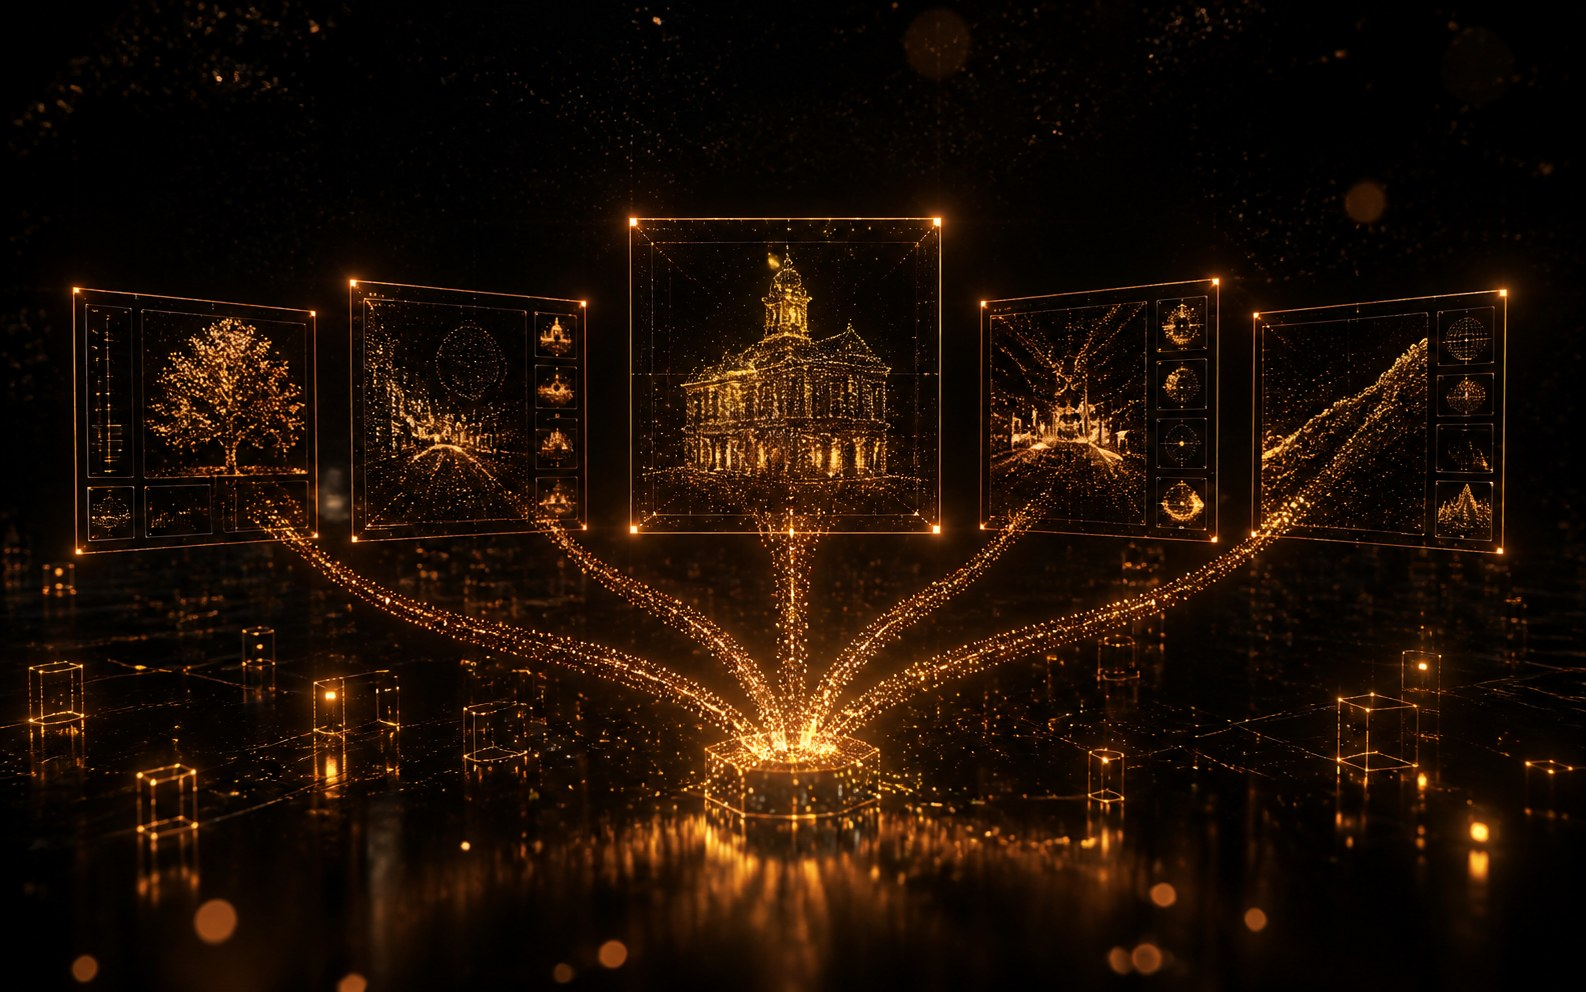
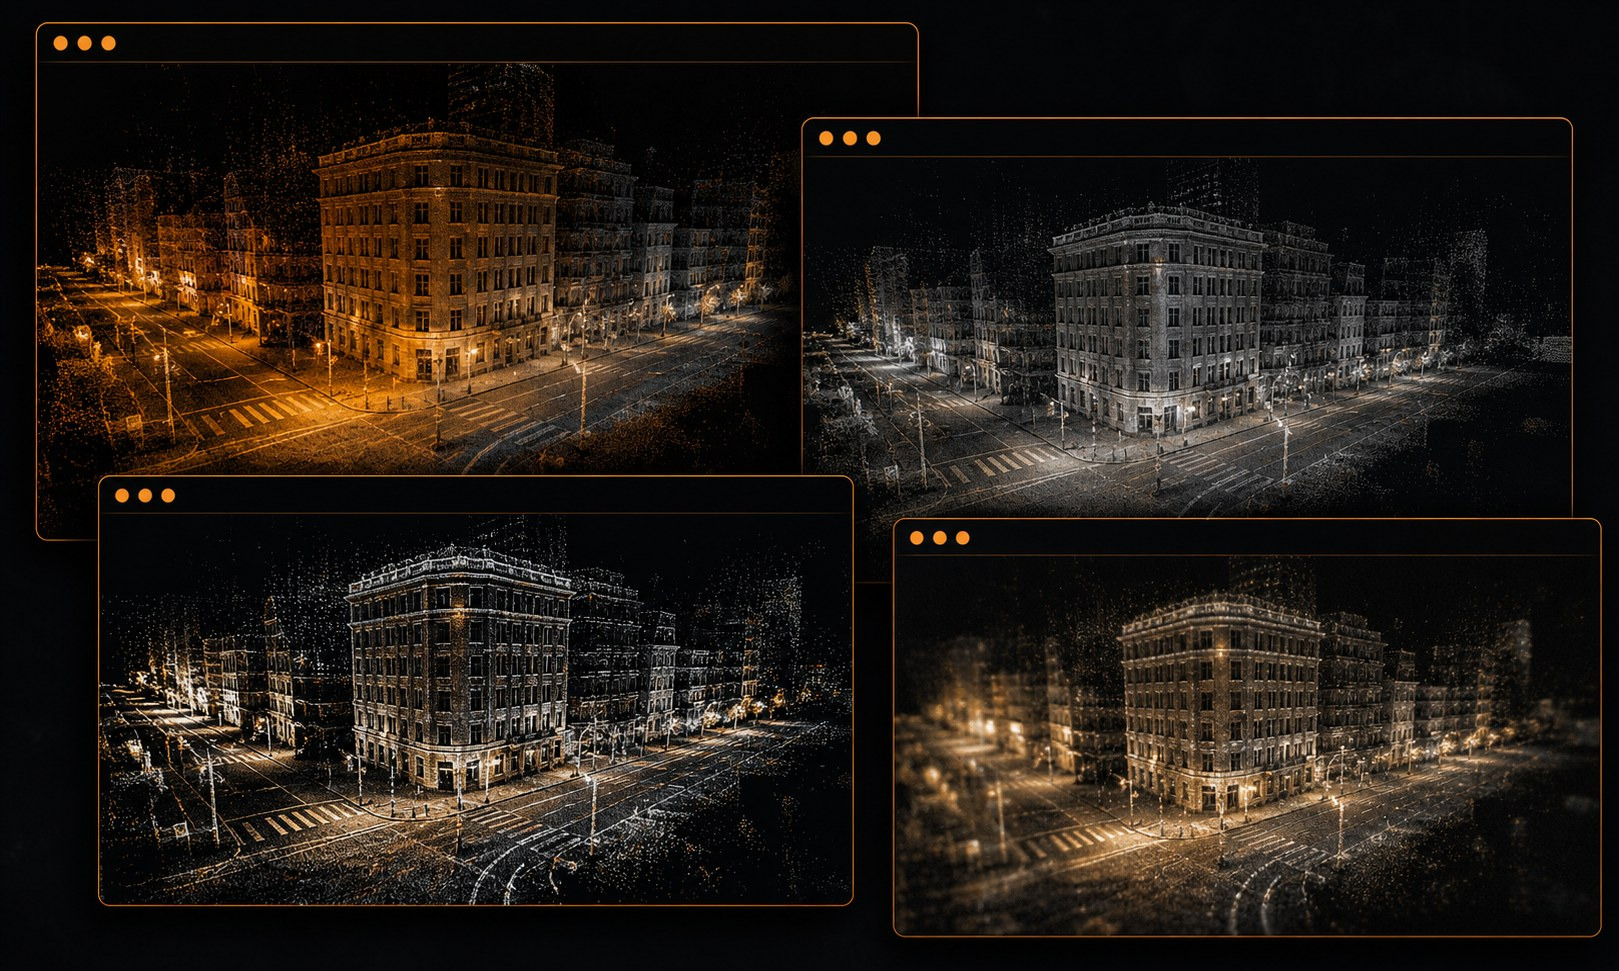
works: ヘッダー画像を再生成、抽象的すぎた前回案から具体的なビジュアルへ
同じ3DGSスキャンが複数のアプリウィンドウで違う見え方をする、という
具体的なコンセプトに変更(ロゴ・実在UIは非表示)。alt/captionも更新。

diff --git a/works/3dgs-software-comparison.html b/works/3dgs-software-comparison.html
@@ -16,8 +16,8 @@
 <meta property="og:description" content="3D Gaussian Splatting(3DGS)を読み込み・編集・書き出しできるDCC・ビューアー・変換ツール・ゲームエンジンプラグインを、入手先URL付きで整理。Houdini・Blender・3ds Max・Cinema 4DからSuperSplat、splat-transform、UE5/Unity向けプラグインまで。">
 <meta property="og:url" content="https://web.locahun3d.com/works/3dgs-software-comparison.html">
 <meta property="og:image" content="https://web.locahun3d.com/works/images/3dgs-software-comparison_hero.jpg">
-<meta property="og:image:width" content="1586">
-<meta property="og:image:height" content="992">
+<meta property="og:image:width" content="1619">
+<meta property="og:image:height" content="971">
 <meta name="twitter:card" content="summary_large_image">
 <meta name="twitter:title" content="3DGSを扱えるソフト・ツール比較">
 <meta name="twitter:description" content="3D Gaussian Splatting(3DGS)を読み込み・編集・書き出しできるDCC・ビューアー・変換ツール・ゲームエンジンプラグインを、入手先URL付きで整理。Houdini・Blender・3ds Max・Cinema 4DからSuperSplat、splat-transform、UE5/Unity向けプラグインまで。">
@@ -242,8 +242,8 @@
   <div class="callout note"><b>この記事の情報は2026年8月時点のものです</b>3DGS周辺のツールは更新が速く、対応フォーマットやライセンス条件は変わることがあります。導入前に、リンク先の公式サイト・リポジトリで最新の状態を確認してください。「おすすめ度」欄は筆者の実務判断による目安(◎本命／○実用的／△用途を選ぶ・参考程度)で、プロジェクトの要件によって最適な選択は変わります。</div>
 
   <figure>
-    <img src="images/3dgs-software-comparison_hero.jpg" alt="1つの3DGSスキャンデータが、複数の抽象的なパネルへ分岐していくイメージ図(概念イラスト)">
-    <figcaption><b>1つの3DGSスキャンから、複数のソフト・ツールへ。</b>どこでどこまで処理するかを整理するのが、この記事の目的です。</figcaption>
+    <img src="images/3dgs-software-comparison_hero.jpg" alt="同じ3DGSスキャンデータが、複数のアプリケーションウィンドウでそれぞれ違う見え方で表示されているイメージ図(概念イラスト)">
+    <figcaption><b>同じ3DGSスキャンでも、開くソフトによって見え方・扱い方が変わります。</b>どこでどこまで処理するかを整理するのが、この記事の目的です。</figcaption>
   </figure>
 </header>
 
